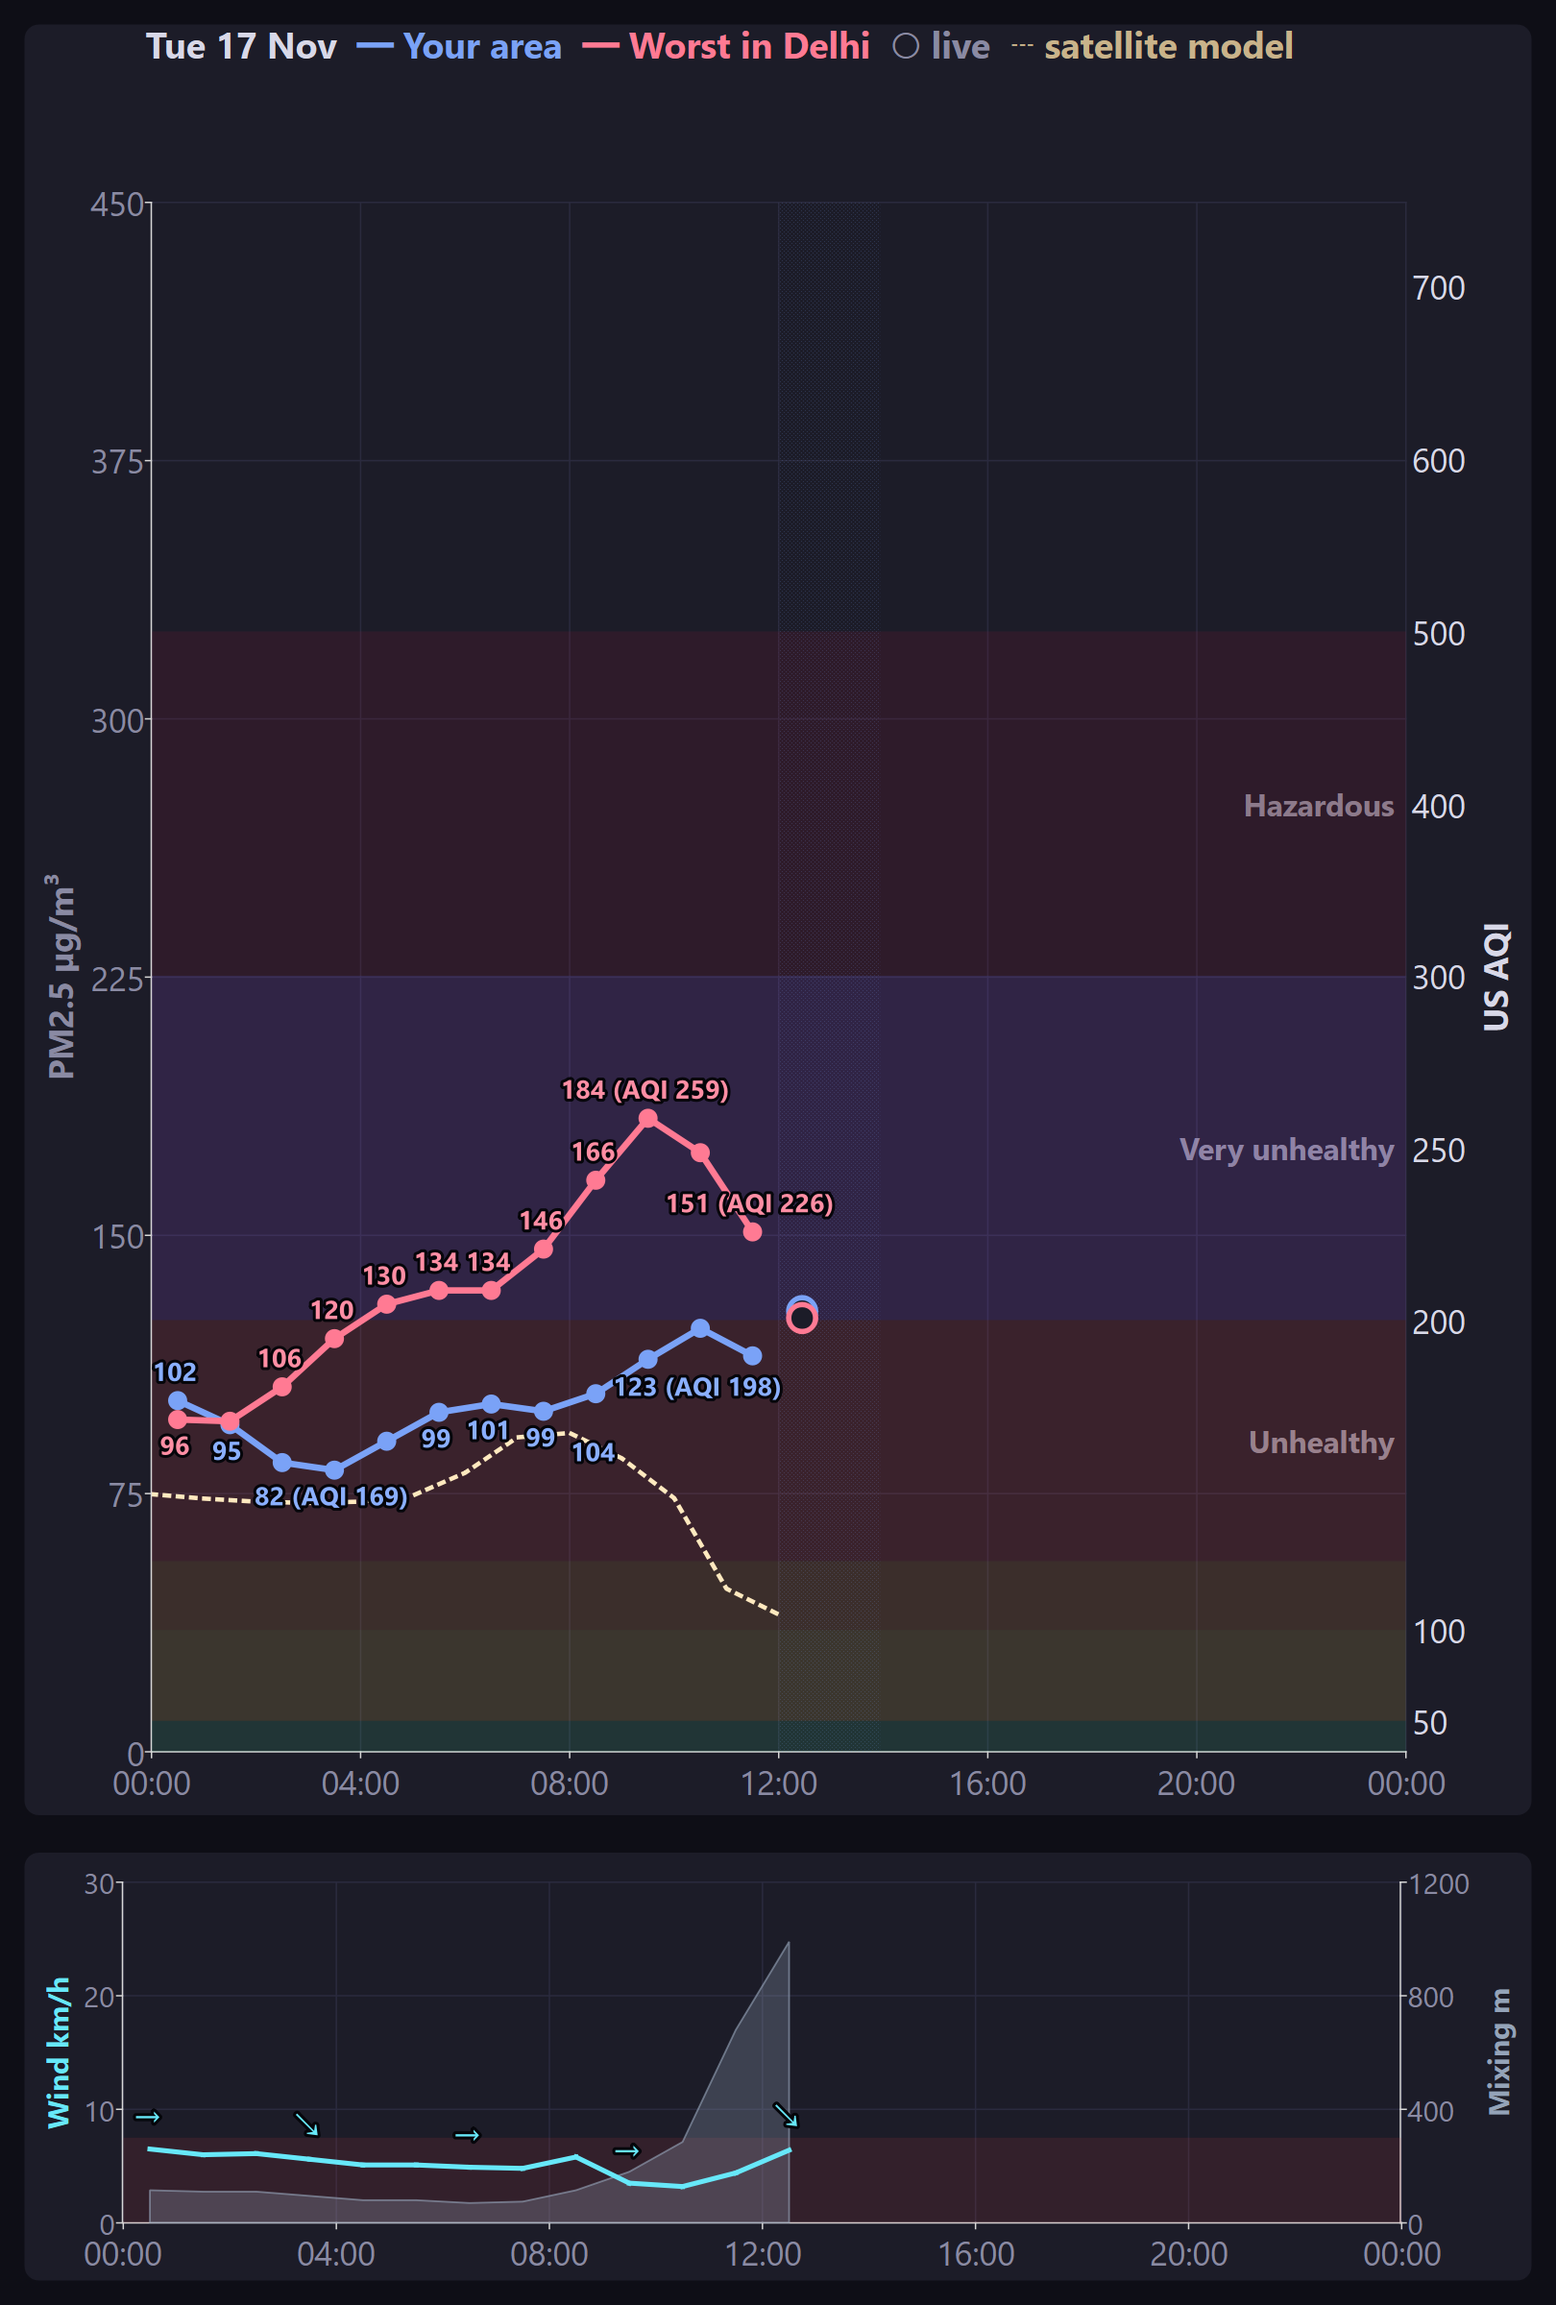
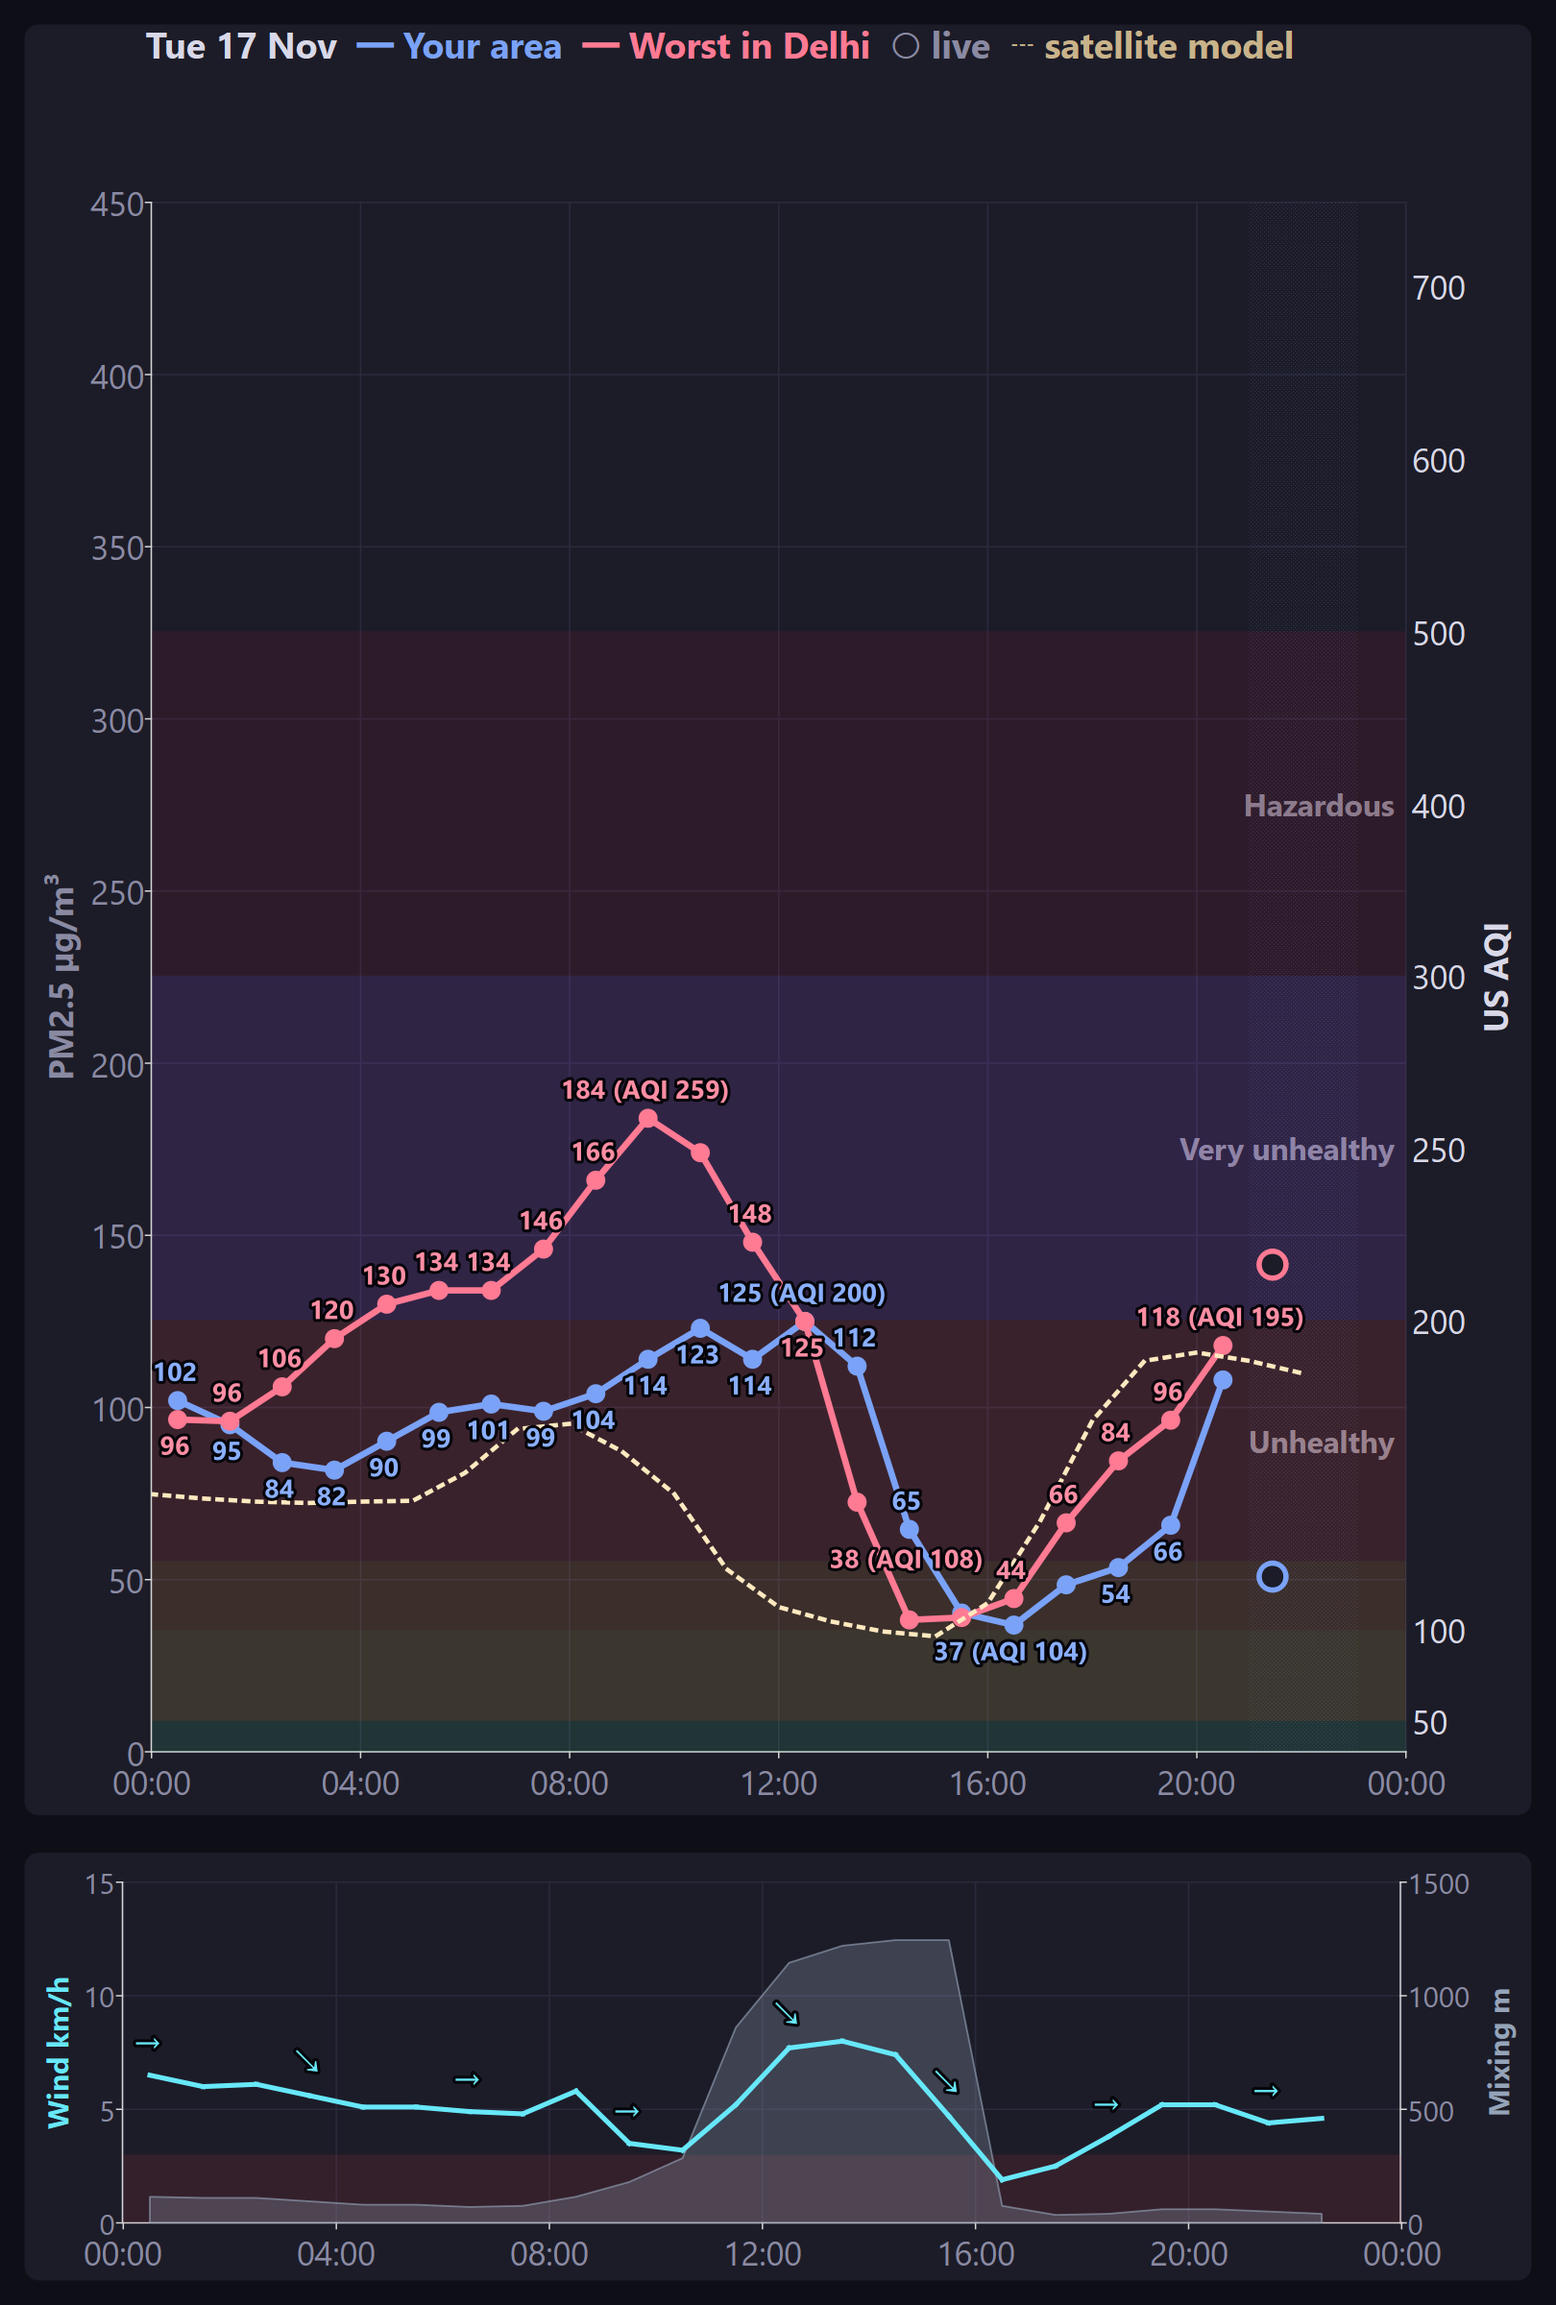
History charts: PM2.5 axis in round steps (0, 50, 100 …)

diff --git a/history_panel.py b/history_panel.py
@@ -813,7 +813,7 @@ class HistoryWindow(QWidget):
     def _setup_chart(self, chart, x, y_max, unit, band_index):
         """band_index 0 = AQI bounds, 1 = PM2.5 bounds."""
         y = QValueAxis()
-        y.setRange(0, y_max); y.setTickCount(7); y.setLabelFormat("%d")
+        y.setRange(0, y_max); y.setTickCount(_tick_count(y_max)); y.setLabelFormat("%d")   # 0, 50, 100 …
         y.setTruncateLabels(False)                 # numbers, never "…", however narrow the chart
         y.setTitleText(unit); y.setTitleBrush(QBrush(QColor(MUTED)))
         y.setLabelsColor(QColor(MUTED)); y.setGridLineColor(QColor(GRID))
@@ -1169,8 +1169,9 @@ class HistoryWindow(QWidget):
                     "(fetched hourly while the app runs; the first fetch fills the last 3 months).</span>")
         w_max = max([v["wind_kmh"] or 0 for _, v in rows] + [10])
         b_max = max([v["mixing_height_m"] or 0 for _, v in rows] + [600])
-        yw = QValueAxis(); yw.setRange(0, _nice_tight(w_max * 1.15)); yw.setTickCount(4); yw.setLabelFormat("%d")
-        yb = QValueAxis(); yb.setRange(0, _nice_tight(b_max * 1.05)); yb.setTickCount(4); yb.setLabelFormat("%d")
+        tw, tb = _nice_tight(w_max * 1.15, 4), _nice_tight(b_max * 1.05, 4)     # thin strip: ≤ 4 gaps
+        yw = QValueAxis(); yw.setRange(0, tw); yw.setTickCount(_tick_count(tw, 4)); yw.setLabelFormat("%d")
+        yb = QValueAxis(); yb.setRange(0, tb); yb.setTickCount(_tick_count(tb, 4)); yb.setLabelFormat("%d")
         for ax, title, colr in ((yw, "Wind km/h", WIND_COLOR), (yb, "Mixing m", BLH_COLOR)):
             ax.setTitleText(title); ax.setTitleBrush(QBrush(QColor(colr)))
             ax.setLabelsColor(QColor(MUTED)); ax.setGridLineColor(QColor(GRID))
@@ -1940,18 +1941,28 @@ def aqi_category_name(a):
     return category(a)
 
 
-def _nice_tight(v):
-    """Smallest round axis top ≥ v (6 equal ticks), no extra headroom."""
-    for tick in (5, 10, 20, 25, 50, 75, 100, 125, 150, 200, 250, 300, 400, 500, 750, 1000):
-        if v <= tick * 6:
-            return tick * 6
-    return int(-(-v // 6000) * 6000)
+_STEPS = (5, 10, 20, 50, 100, 200, 500, 1000, 2000)    # gridline gaps people read easily: 50, 100, 150 …
 
 
-def _nice(v):
-    """Axis max that splits into 6 round ticks (tickCount = 7)."""
-    v = max(float(v), 10.0) * 1.08
-    for tick in (5, 10, 20, 25, 50, 75, 100, 125, 150, 200, 250, 300, 400, 500):
-        if v <= tick * 6:
-            return tick * 6
-    return int(-(-v // 3000) * 3000)
+def _axis_step(top, max_intervals=10):
+    """Gap between gridlines: the smallest round step that needs ≤ max_intervals of them."""
+    for st in _STEPS:
+        if top / st <= max_intervals + 1e-9:
+            return st
+    return _STEPS[-1] * int(-(-top // (_STEPS[-1] * max_intervals)))
+
+
+def _nice_tight(v, max_intervals=10):
+    """Smallest axis top ≥ v that is a whole number of round steps (0, 50, 100 … 450), no headroom."""
+    v = max(float(v), 1.0)
+    st = _axis_step(v, max_intervals)
+    return int(-(-v // st) * st)
+
+
+def _nice(v, max_intervals=10):
+    """Axis top with a little headroom above v, on the same round steps."""
+    return _nice_tight(max(float(v), 10.0) * 1.08, max_intervals)
+
+
+def _tick_count(top, max_intervals=10):
+    return int(round(top / _axis_step(top, max_intervals))) + 1
